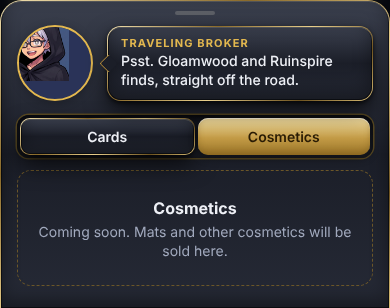
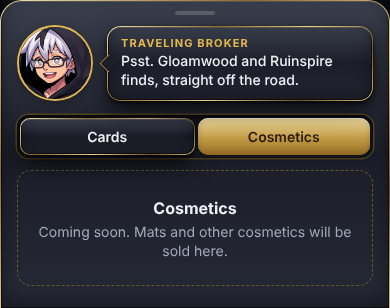
Broker portrait: centre the face in the keeper frame
The six broker portraits are re-cropped around the figure, and the broker's
keeper image no longer inherits the shopkeeper's offset and oversize rules.

Claude-Session: https://claude.ai/code/session_01Gg52idu1JMuwzFjidsHwhf

Changed region(s): [[0.0308, 0.0877, 0.2462, 0.3214]]

diff --git a/index.html b/index.html
@@ -365,7 +365,7 @@ button.pri,.sbtn.pri,.sheet button.pri,.tstart{background:var(--gf) padding-box,
 #bd.mt-B::after,#bd.mt-C::after,#bd.mt-D::after,#bd.mt-E::after{display:none}
 .bsheet .seg button.on{background:var(--gf)!important;color:#2a1c05!important;box-shadow:inset 0 1px 0 #fff9,inset 0 -3px 6px #6b4d1355,0 3px 8px #0007!important;border:0!important}
 .bsoon{text-align:center;padding:26px 10px 18px;border:1.5px dashed #6b5628;border-radius:14px;margin-top:10px}
-.bsheet .kface img{width:100%;height:100%;object-fit:cover}
+.bsheet .kface img{width:100%;height:100%;max-width:none;margin:0;object-fit:cover}
 .bgrid{display:grid;grid-template-columns:1fr 1fr 1fr;gap:8px;margin-top:6px}
 .bcell{display:flex;flex-direction:column;align-items:center;gap:6px;min-width:0}
 .bcell .card{width:100%}
@@ -616,7 +616,7 @@ function brokerPrice(c){return 2*SELL[c.lv]}
 function brokerTick(){const B=P.bro||(P.bro={c:0,t:7+Math.floor(Math.random()*4),vis:0,left:0,stock:[]});if(BROKER_ALWAYS){B.vis=1;B.left=99;if(!B.stock.length||B.stock.every(x=>x==null)){B.stock=brokerStock();B.mood='hello'}save();return}if(B.vis){if(--B.left<=0){B.vis=0;B.c=0;B.t=7+Math.floor(Math.random()*4)}}else if(++B.c>=B.t){B.vis=1;B.left=3;B.mood='hello';B.stock=brokerStock()}save()}
 function buyBroker(i){const B=P.bro;if(!B||!B.vis)return;const id=B.stock[i];if(id==null)return;const c=CARDS[id],p=brokerPrice(c);if(P.gil<p){B.mood='sorry';save();render();return}P.gil-=p;coll[id]=(coll[id]||0)+1;B.stock[i]=null;B.mood='pleased';save();render()}
 const COINB='<svg class="coin" viewBox="0 0 16 16" aria-hidden="true"><circle cx="8" cy="8" r="7" fill="#e3b84f"/><circle cx="8" cy="8" r="4.6" fill="none" stroke="#8a6a1f" stroke-width="1"/></svg>';
-const BKEEP={"smug": "assets/dd17c78bb9a547e1.jpg", "pleased": "assets/5b42b2535528f2c3.jpg", "happy": "assets/382fe61239327f6a.jpg", "hello": "assets/f94e165256098dd5.jpg", "sorry": "assets/693bcf91e5d1fd08.jpg", "think": "assets/f3635363a4ef759b.jpg"};
+const BKEEP={"smug": "assets/42015b491b1d024c.jpg", "pleased": "assets/e7efbe1689c55b68.jpg", "happy": "assets/24b59dd3195e9883.jpg", "hello": "assets/02721e77c285a9d9.jpg", "sorry": "assets/a5025908979011b3.jpg", "think": "assets/c020157662c3717e.jpg"};
 const BLINE={hello:'Psst. Gloamwood and Ruinspire finds, straight off the road.',pleased:'A fine choice. Keep that one out of sight.',sorry:'Coin runs short on the road, friend. Come back when it doesn\'t.',gone:'Sold out. The road calls, traveler.'};
 function brokerSheet(){const B=P.bro,left=B.left,mood=B.mood||'hello',sold=B.stock.every(x=>x==null),bt=S.bTab||'cards';
 const tiles=B.stock.map((id,i)=>{if(id==null)return '<div class="bcell"><div class="bsold">Sold</div></div>';const c=CARDS[id],pr=brokerPrice(c),can=P.gil>=pr;return `<div class="bcell">${cardH(c,'p','',can?`onclick="buyBroker(${i})"`:'')}<button class="sbtn ${can?'pri':''} bbuy" ${can?'':'disabled'} onclick="buyBroker(${i})">${COINB}${pr}</button></div>`}).join('');

diff --git a/tools/mat-mockup/shot-broker-face.js b/tools/mat-mockup/shot-broker-face.js
@@ -1,0 +1,12 @@
+const { chromium } = require('playwright');
+const path = require('path');
+(async () => {
+  const b = await chromium.launch();
+  const p = await b.newPage({ viewport: { width: 390, height: 800 }, deviceScaleFactor: 2 });
+  await p.goto('file://' + path.resolve(__dirname, '../../index.html'));
+  await p.waitForTimeout(400);
+  await p.evaluate(() => { P.gil = 5000; P.testAll = 1; S.screen = 'menu'; S.broker = 1; render(); });
+  await p.waitForTimeout(500);
+  await p.locator('.bsheet .kface').screenshot({ path: path.join(__dirname, 'broker-face.png') });
+  await b.close();
+})().catch(e => { console.error(e); process.exit(1); });
